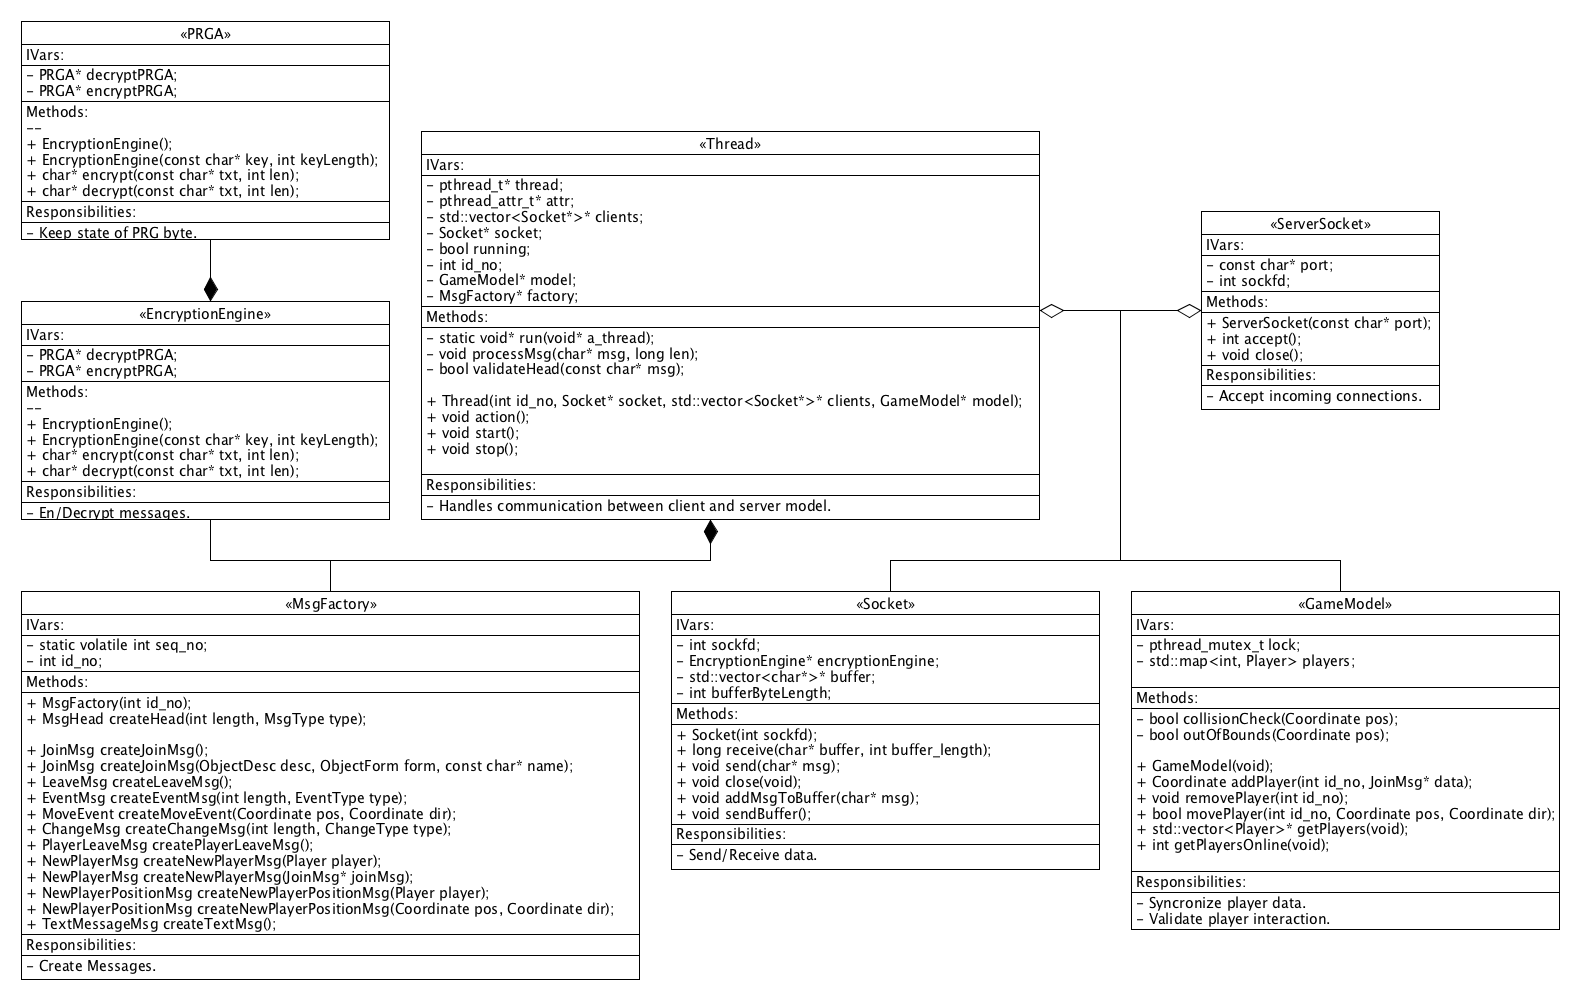
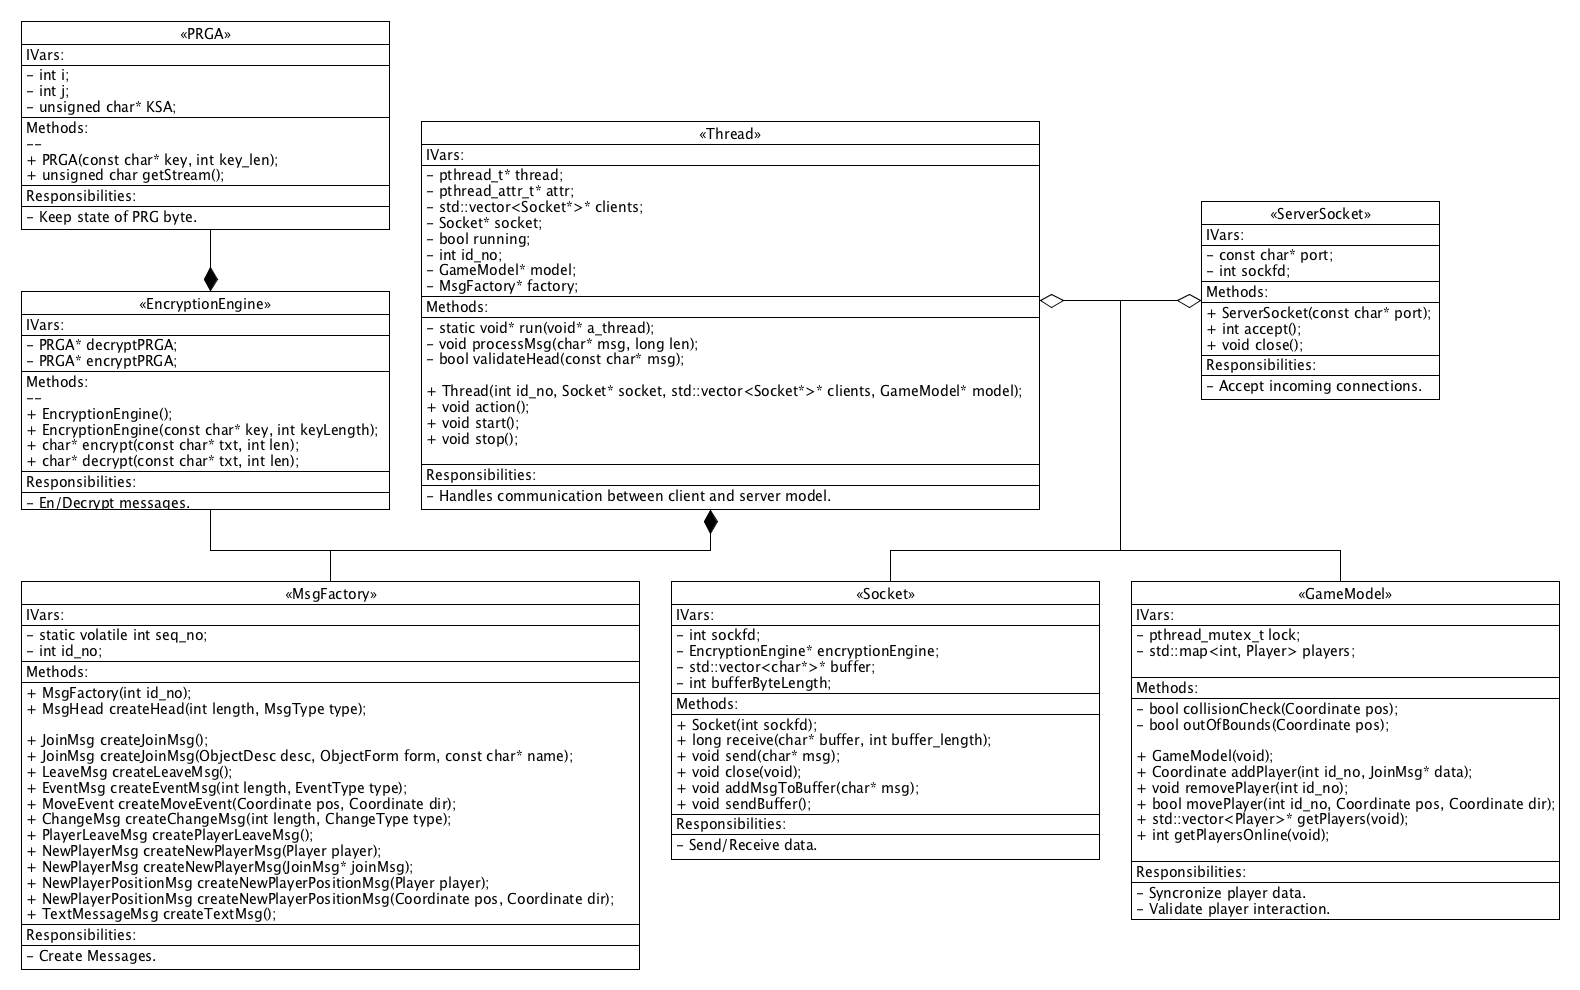
Metod Klar

diff --git a/rapport.tex b/rapport.tex
@@ -91,16 +91,30 @@
 		All kommunikation skulle krypteras enligt RC4.
 		 
 	
+
+	\newpage	
 	\section{Metod}%hur har du gått tillväga för att lösa uppgiften, beskriv design. 
-		\subsection{Klient} %delegat mönster. beskriv kort ios.
-		\subsection{Server} %simpel non blocking multithreaded server... synkroniserad kollision
-			\subsubsection{Trådar}
-			
-		\subsection{Kryptering}
+	Jag har använt laboration 3 som mall över vilka delar som skall finnas i applikationen samt hur dessa skall kommunicera med varandra. 
+	
+		\subsection{Berkeley Sockets}	
+		Med Java's Socket-klass som förebild tänkte jag designa en klass som abstraherar det mesta av denna API för att göra det smidigt för övriga delar i applikationen att sända/ta-emot data. 
 		
+		\subsection{Klient} %delegat mönster. beskriv kort ios.
+		Klienten är en iOS-applikation och är därför skriven i både Objective-C och C++. När man använder sig av C++ i iOS applikationer är det bra att 'wrappa' C++ koden i Objective-C syntax för att göra det enkelt för sig. Detta medför vissa prestanda förluster gentemot ren C++ eller ren Objective-C men i denna laboration har det varit försumbart.
+		
+		\subsection{Server} %simpel non blocking multithreaded server... synkroniserad kollision
+		Servern är designad för att kunna ta emot flera klienter och detta sker genom användandet av trådar. Serverns modell skickas till varje tråd och åtkomst till denna sker synkroniserat så att kollision och dylikt ska flyta på bra.
+				
+	\newpage
 	\section{Resultat}%hur är koden uppdelad, finns det speciellt svåra detaljer eller bra lösningar.
 		\subsection{Klient}
+		\begin{center}
+			\includegraphics[scale=.2]{./png/ClientClassDiagram.png}			
+		\end{center}
 		\subsection{Server}
+		\begin{center}
+			\includegraphics[scale=.2]{./png/ServerClassDiagram.png}			
+		\end{center}
 		
 	\section{Diskussion}%behandlar dina åsikter om Laborationen och vad du lärt dig.
   
